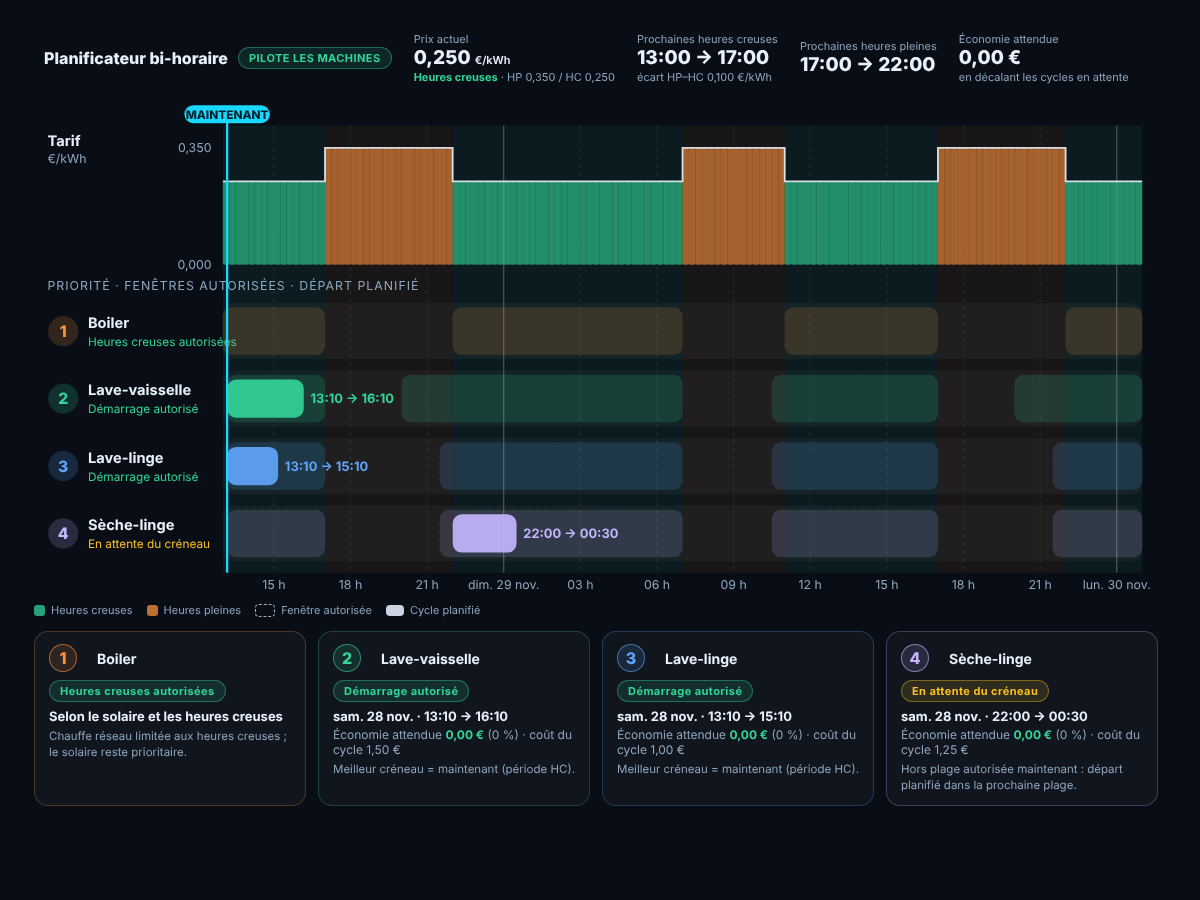
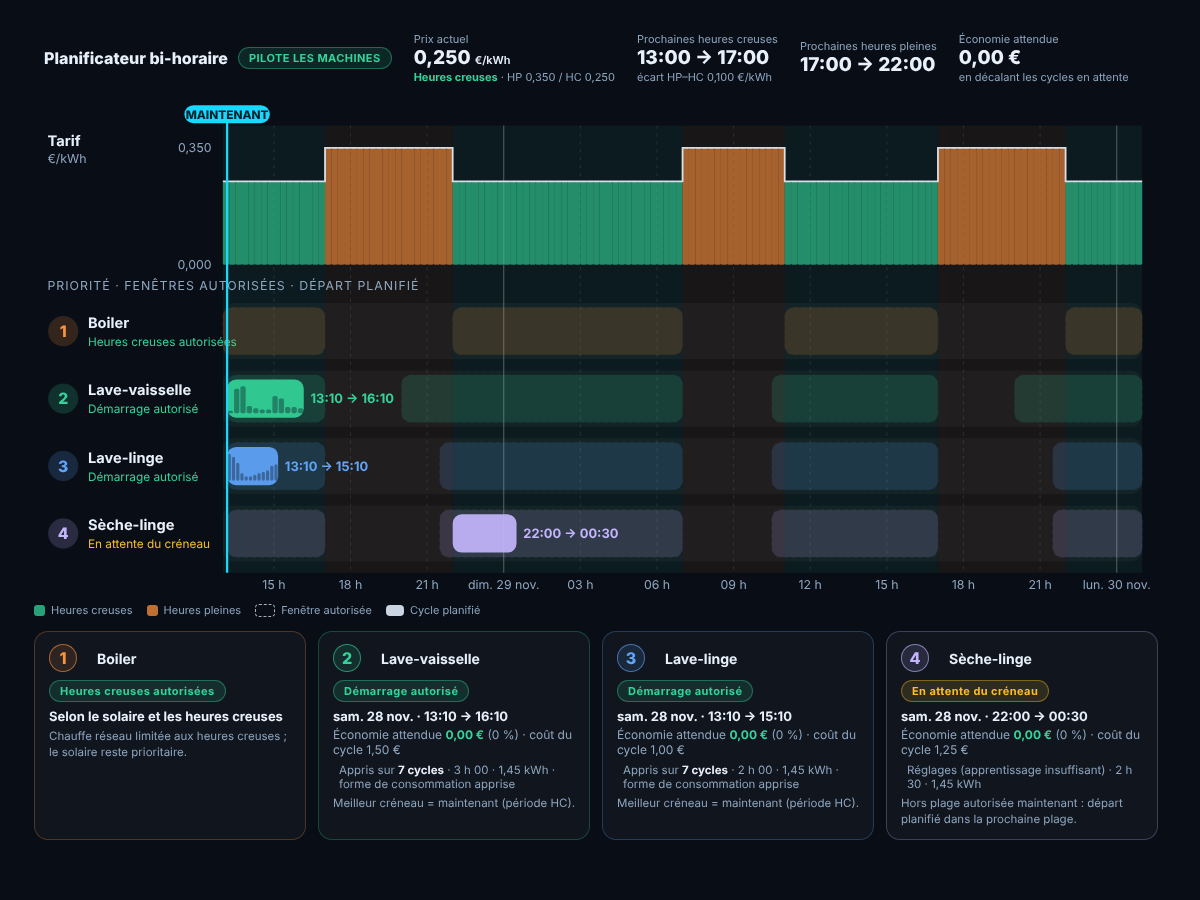
Machine Learning : durée, énergie et forme de consommation apprises dans les planificateurs et la vue
Claude-Session: https://claude.ai/code/session_01JZbpaVk4qVK5BhL6Fav4kt

diff --git a/custom_components/foxcat_energy/domain/loads/machine_learning.py b/custom_components/foxcat_energy/domain/loads/machine_learning.py
@@ -18,11 +18,15 @@ class MachineLearningRecorder:
     MIN_POINT_INTERVAL_S = 10.0
     MAX_INTEGRATION_GAP_S = 3600.0
     PERIODIC_SAVE_S = 300.0
+    PROFILE_BINS = 12
+    PROFILE_MIN_POINTS = 6
 
     # MÉTHODE : MachineLearningRecorder.__init__ — méthode spéciale __init__
     def __init__(self) -> None:
         self._machines: dict[str, dict[str, Any]] = {}
         self._last_save_at: datetime | None = None
+        # Forme moyenne des cycles, recalculée seulement quand l'historique change.
+        self._shape_cache: dict[str, tuple[tuple[int, int], list[float] | None, int]] = {}
 
     # MÉTHODE : MachineLearningRecorder.restore — Restaure uniquement l'historique terminé
     def restore(self, raw: Any) -> None:
@@ -319,6 +323,65 @@ class MachineLearningRecorder:
         rec["candidate_at"] = None
         rec["low_since"] = None
 
+    # MÉTHODE : MachineLearningRecorder.cycle_shape — Part de l'énergie d'un cycle dans chacune de ses tranches
+    @classmethod
+    def cycle_shape(cls, cycle: dict[str, Any], bins: int | None = None) -> list[float] | None:
+        """Découpe un cycle en ``bins`` tranches de durée égale et rend la part d'énergie de chacune (somme 1).
+
+        Sert à savoir *quand* une machine consomme (chauffe de l'eau au début, essorage à la fin…).
+        ``None`` si le cycle n'a pas assez de points ou aucune énergie.
+        """
+        bins = bins or cls.PROFILE_BINS
+        raw = cycle.get("points")
+        duration = float(cycle.get("duration_s", 0.0) or 0.0)
+        if not isinstance(raw, list) or duration <= 0:
+            return None
+        pts = sorted(
+            (float(p["t_s"]), max(float(p["p_w"]), 0.0))
+            for p in raw
+            if isinstance(p, dict) and isinstance(p.get("t_s"), (int, float)) and isinstance(p.get("p_w"), (int, float))
+        )
+        if len(pts) < cls.PROFILE_MIN_POINTS:
+            return None
+
+        def power_at(t: float) -> float:
+            if t <= pts[0][0]:
+                return pts[0][1]
+            if t >= pts[-1][0]:
+                return pts[-1][1]
+            for (t_a, p_a), (t_b, p_b) in zip(pts, pts[1:]):
+                if t_a <= t <= t_b:
+                    return p_a if t_b == t_a else p_a + (p_b - p_a) * (t - t_a) / (t_b - t_a)
+            return 0.0
+
+        width = duration / bins
+        sub = 6
+        energy = []
+        for k in range(bins):
+            mean = sum(power_at((k + (i + 0.5) / sub) * width) for i in range(sub)) / sub
+            energy.append(mean)
+        total = sum(energy)
+        if total <= 0:
+            return None
+        return [value / total for value in energy]
+
+    # MÉTHODE : MachineLearningRecorder._average_shape — Forme moyenne des 10 derniers cycles exploitables
+    def _average_shape(self, machine_id: str, cycles: list[dict[str, Any]]) -> tuple[list[float] | None, int]:
+        key = (int(self._machines.get(machine_id, {}).get("total_cycles", 0)), len(cycles))
+        cached = self._shape_cache.get(machine_id)
+        if cached and cached[0] == key:
+            return cached[1], cached[2]
+        shapes = [shape for c in cycles[-10:] if (shape := self.cycle_shape(c)) is not None]
+        if shapes:
+            bins = len(shapes[0])
+            mean = [sum(shape[k] for shape in shapes) / len(shapes) for k in range(bins)]
+            total = sum(mean)
+            result: list[float] | None = [value / total for value in mean] if total > 0 else None
+        else:
+            result = None
+        self._shape_cache[machine_id] = (key, result, len(shapes))
+        return result, len(shapes)
+
     # MÉTHODE : MachineLearningRecorder.view — View
     def view(self) -> dict[str, Any]:
         result: dict[str, Any] = {}
@@ -327,6 +390,7 @@ class MachineLearningRecorder:
             recent = cycles[-10:] if isinstance(cycles, list) else []
             durations = [float(c.get("duration_s", 0.0)) for c in recent if float(c.get("duration_s", 0.0)) > 0]
             energies = [float(c.get("energy_wh", 0.0)) for c in recent if float(c.get("energy_wh", 0.0)) >= 0]
+            shape, shape_cycles = self._average_shape(machine_id, cycles if isinstance(cycles, list) else [])
             current = rec.get("current")
             current_view = None
             if isinstance(current, dict):
@@ -348,6 +412,9 @@ class MachineLearningRecorder:
                 "last_cycle": deepcopy(cycles[-1]) if cycles else None,
                 "average_duration_s_10": (sum(durations) / len(durations)) if durations else None,
                 "average_energy_wh_10": (sum(energies) / len(energies)) if energies else None,
+                # Part d'énergie par tranche de cycle (somme 1) et nombre de cycles qui l'ont produite.
+                "profile_shape_10": [round(v, 4) for v in shape] if shape else None,
+                "profile_shape_cycles": shape_cycles,
             }
         return result
 

diff --git a/custom_components/foxcat_energy/domain/pricing/dynamic_planner.py b/custom_components/foxcat_energy/domain/pricing/dynamic_planner.py
@@ -145,9 +145,36 @@ def _price_at(points: list[PricePoint], at: datetime) -> float | None:
     return chosen
 
 
+# En dessous de ce nombre de cycles mesurés, l'apprentissage est jugé trop mince : on garde les réglages.
+MIN_LEARNED_CYCLES = 3
+
+
+def _learned_stats(machine: MachineDefinition, learning: dict[str, Any]) -> dict[str, Any]:
+    """Statistiques d'apprentissage de la machine, ou rien si elles reposent sur trop peu de cycles."""
+    stats = learning.get(machine.machine_id, {}) if isinstance(learning, dict) else {}
+    cycles = stats.get("retained_cycles")
+    if isinstance(cycles, (int, float)) and cycles < MIN_LEARNED_CYCLES:
+        return {}
+    return stats
+
+
+def _learned_shape(machine: MachineDefinition, learning: dict[str, Any]) -> list[float] | None:
+    """Forme apprise de la consommation (part d'énergie par tranche de cycle, somme 1), si elle est fiable."""
+    stats = _learned_stats(machine, learning)
+    shape = stats.get("profile_shape_10")
+    if not isinstance(shape, list) or len(shape) < 2 or not stats.get("average_energy_wh_10"):
+        return None
+    try:
+        values = [max(float(v), 0.0) for v in shape]
+    except (TypeError, ValueError):
+        return None
+    total = sum(values)
+    return [v / total for v in values] if total > 0 else None
+
+
 def _profile(machine: MachineDefinition, learning: dict[str, Any]) -> tuple[float, float, str]:
     """Durée (h), puissance moyenne (W) et origine : apprentissage sur 10 cycles, sinon réglages."""
-    stats = learning.get(machine.machine_id, {}) if isinstance(learning, dict) else {}
+    stats = _learned_stats(machine, learning)
     duration_s = stats.get("average_duration_s_10")
     energy_wh = stats.get("average_energy_wh_10")
     if isinstance(duration_s, (int, float)) and duration_s > 0:
@@ -222,15 +249,25 @@ def _candidate_cost(
     duration_h: float,
     power_w: float,
     share: float,
+    shape: list[float] | None = None,
 ) -> float | None:
-    end = start + timedelta(hours=duration_h)
-    grid_price = interval_cost(slots, start, end)
-    if grid_price is None:
-        return None
+    """Coût d'un cycle commencé à ``start``.
+
+    Avec ``shape`` (consommation apprise par tranche), chaque tranche est payée au prix de son propre
+    créneau : une chauffe en début de cycle pèse sur le prix du début, pas sur la moyenne du cycle.
+    """
     export_price = _price_at(export_points, start) if export_points else None
     solar_price = export_price if export_price is not None else 0.0
-    unit = (1.0 - share) * grid_price + share * solar_price
-    return unit * power_w / 1000.0 * duration_h
+    energy_kwh = power_w / 1000.0 * duration_h
+    parts = shape or [1.0]
+    step = timedelta(hours=duration_h) / len(parts)
+    cost = 0.0
+    for index, part in enumerate(parts):
+        grid_price = interval_cost(slots, start + step * index, start + step * (index + 1))
+        if grid_price is None:
+            return None
+        cost += ((1.0 - share) * grid_price + share * solar_price) * energy_kwh * part
+    return cost
 
 
 def _contiguous_starts(
@@ -434,6 +471,7 @@ def build_dynamic_plan(
             continue
         cycle = cycles.get(mid, {})
         duration_h, power_w, source = _profile(machine, learning)
+        shape = _learned_shape(machine, learning)
         duration = timedelta(hours=duration_h)
         if cycle.get("protected"):
             end = _as_datetime(cycle.get("expected_end_at"), now + duration)
@@ -452,6 +490,10 @@ def build_dynamic_plan(
             "duration_h": round(duration_h, 3),
             "duration_source": source,
             "average_power_w": round(power_w, 1),
+            "energy_kwh": round(power_w / 1000.0 * duration_h, 3),
+            "energy_source": "APPRENTISSAGE_10_CYCLES" if _learned_stats(machine, learning).get("average_energy_wh_10") else "PUISSANCE_NOMINALE",
+            "learning_cycles": int(_learned_stats(machine, learning).get("retained_cycles") or 0),
+            "profile": [round(v, 3) for v in shape] if shape else None,
             "deadline": deadline.isoformat(),
             "interruptible": bool(machine.interruptible),
         }
@@ -482,7 +524,7 @@ def build_dynamic_plan(
                 solar_window=solar_window, confidence_pct=confidence, near=near,
             )
             cost = _candidate_cost(
-                slots=slots, export_points=export_points, start=start, duration_h=duration_h, power_w=power_w, share=share,
+                slots=slots, export_points=export_points, start=start, duration_h=duration_h, power_w=power_w, share=share, shape=shape,
             )
             if cost is None:
                 continue

diff --git a/tests/test_dynamic_planner.py b/tests/test_dynamic_planner.py
@@ -200,3 +200,72 @@ class PlannerViewDataTests(unittest.TestCase):
         self.assertEqual(len(lane["segments"]), 1)
         self.assertIsNone(lane["windows"])
         self.assertEqual(boiler_lane(None, [], source="HEURES_CREUSES")["windows"], [])
+
+
+class LearningTests(unittest.TestCase):
+    """Le planificateur exploite durée, énergie et forme de consommation apprises."""
+
+    CURVE = [0.10, 0.30, 0.30, 0.10] + [0.50] * 32  # départ à 0 h ou à 2 h : même moyenne sur 2 h
+
+    def _plan(self, learning, hour=0):
+        return plan(DAY + timedelta(hours=hour), self.CURVE, learning=learning)["machines"]["wash"]
+
+    @staticmethod
+    def _stats(shape, cycles=6):
+        return {"wash": {"retained_cycles": cycles, "average_duration_s_10": 7200.0, "average_energy_wh_10": 2000.0, "profile_shape_10": shape}}
+
+    def test_without_shape_the_earlier_tied_start_wins(self):
+        entry = self._plan(self._stats(None))
+        self.assertEqual(entry["decision"], START_NOW)
+
+    def test_back_loaded_cycle_is_shifted_to_cheap_end(self):
+        back = [0.0] * 6 + [1 / 6] * 6  # toute l'énergie dans la 2e moitié (essorage, chauffe finale)
+        entry = self._plan(self._stats(back))
+        self.assertEqual(entry["decision"], WAIT)
+        self.assertTrue(entry["planned_start"].startswith("2026-11-16T02:00"))
+        self.assertEqual(entry["profile"][0], 0.0)
+
+    def test_front_loaded_cycle_starts_now(self):
+        front = [1 / 6] * 6 + [0.0] * 6
+        entry = self._plan(self._stats(front))
+        self.assertEqual(entry["decision"], START_NOW)
+
+    def test_energy_and_sources_are_reported(self):
+        entry = self._plan(self._stats(None))
+        self.assertEqual(entry["energy_kwh"], 2.0)
+        self.assertEqual(entry["energy_source"], "APPRENTISSAGE_10_CYCLES")
+        self.assertEqual(entry["duration_source"], "APPRENTISSAGE_10_CYCLES")
+        self.assertEqual(entry["learning_cycles"], 6)
+
+    def test_too_few_learned_cycles_fall_back_to_settings(self):
+        entry = self._plan(self._stats([1 / 12] * 12, cycles=2))
+        self.assertEqual(entry["duration_source"], "DUREE_CONFIGUREE")
+        self.assertEqual(entry["energy_source"], "PUISSANCE_NOMINALE")
+        self.assertIsNone(entry["profile"])
+
+
+class RecorderShapeTests(unittest.TestCase):
+    def test_cycle_shape_locates_the_heating_phase(self):
+        from foxcat_energy.domain.loads.machine_learning import MachineLearningRecorder as R
+
+        cycle = {"duration_s": 600, "points": [{"t_s": t, "p_w": 2000 if t < 200 else 100} for t in range(0, 601, 20)]}
+        shape = R.cycle_shape(cycle)
+        self.assertAlmostEqual(sum(shape), 1.0, places=6)
+        self.assertGreater(sum(shape[:4]), 0.85)
+
+    def test_cycle_shape_needs_enough_points(self):
+        from foxcat_energy.domain.loads.machine_learning import MachineLearningRecorder as R
+
+        self.assertIsNone(R.cycle_shape({"duration_s": 600, "points": [{"t_s": 0, "p_w": 5}]}))
+        self.assertIsNone(R.cycle_shape({"duration_s": 0, "points": []}))
+
+    def test_view_exposes_average_shape_and_caches_it(self):
+        from foxcat_energy.domain.loads.machine_learning import MachineLearningRecorder as R
+
+        rec = R()
+        cycle = {"duration_s": 600.0, "energy_wh": 500.0, "points": [{"t_s": t, "p_w": 2000 if t < 200 else 100} for t in range(0, 601, 20)]}
+        rec.restore({"machines": {"wash": {"name": "Lave-linge", "total_cycles": 3, "cycles": [dict(cycle), dict(cycle), dict(cycle)]}}})
+        first = rec.view()["wash"]
+        self.assertEqual(first["profile_shape_cycles"], 3)
+        self.assertAlmostEqual(sum(first["profile_shape_10"]), 1.0, places=2)
+        self.assertEqual(rec.view()["wash"]["profile_shape_10"], first["profile_shape_10"])
